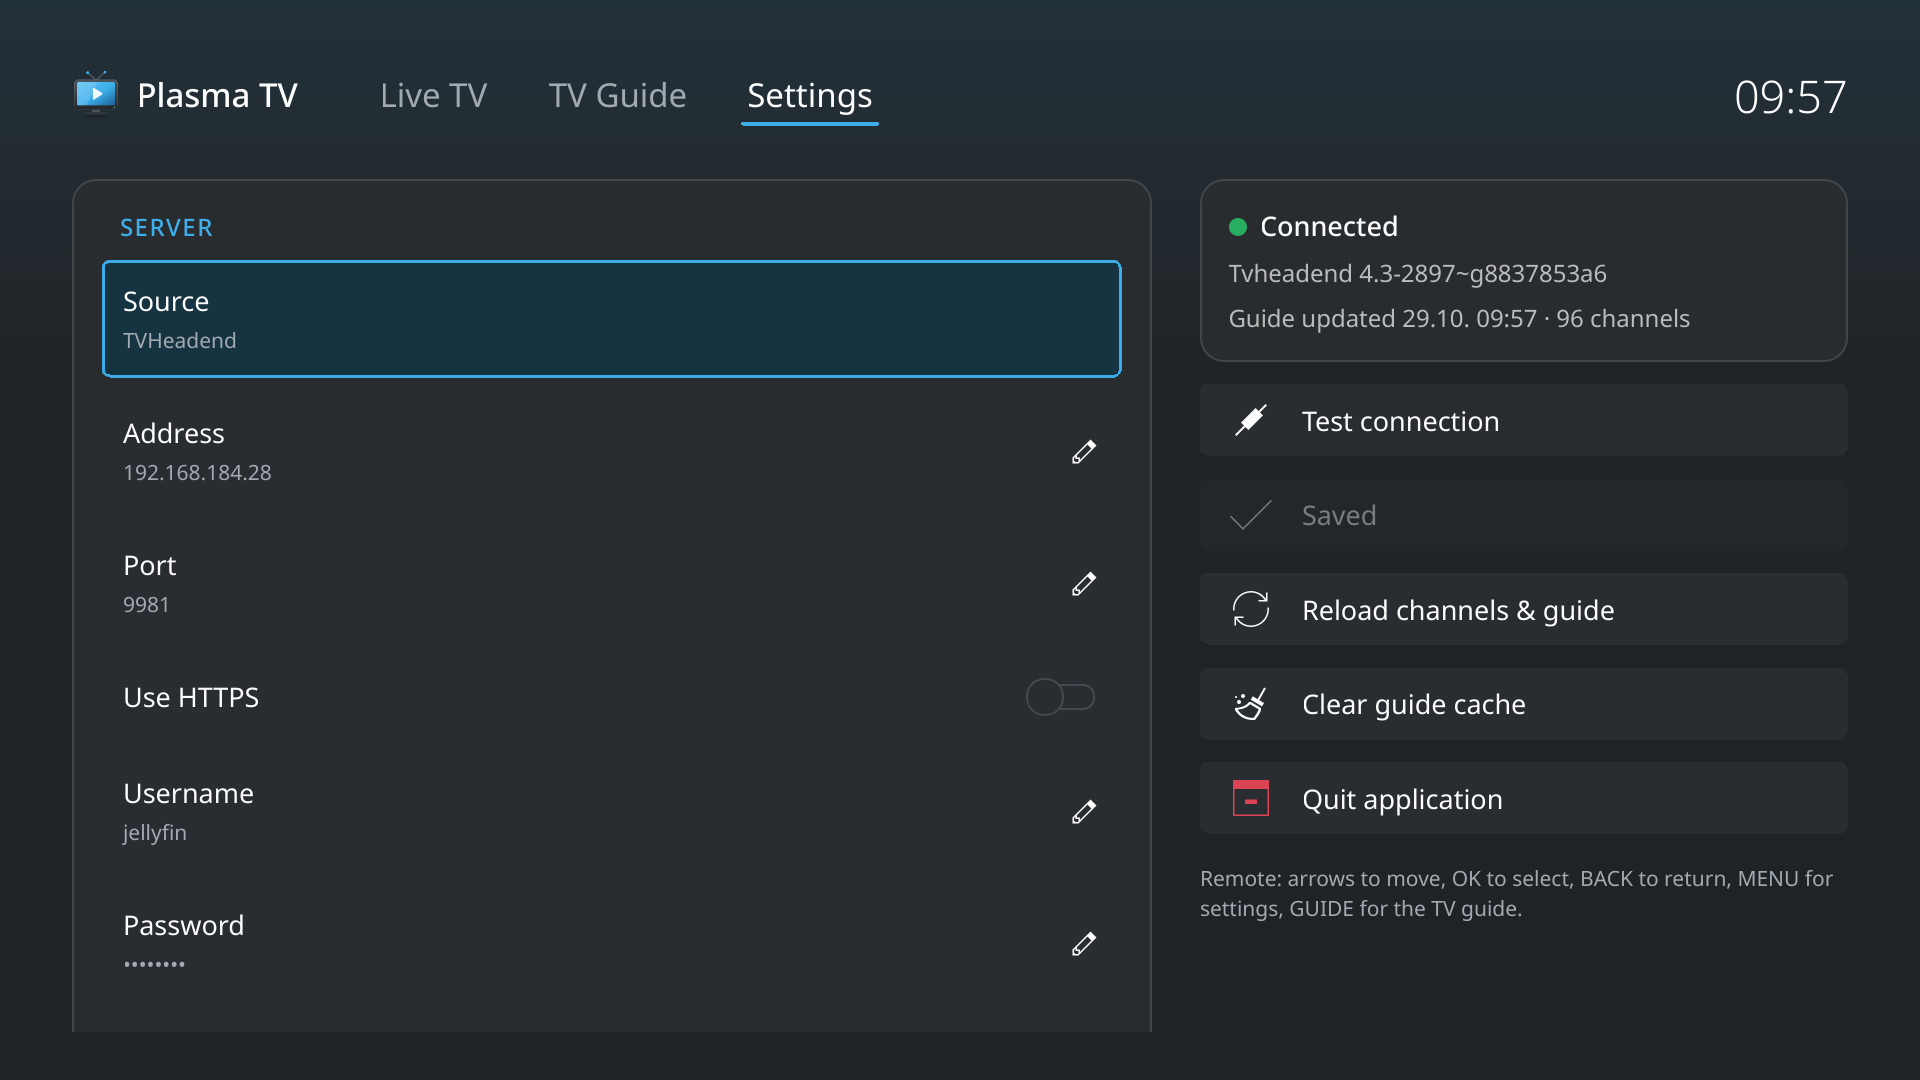
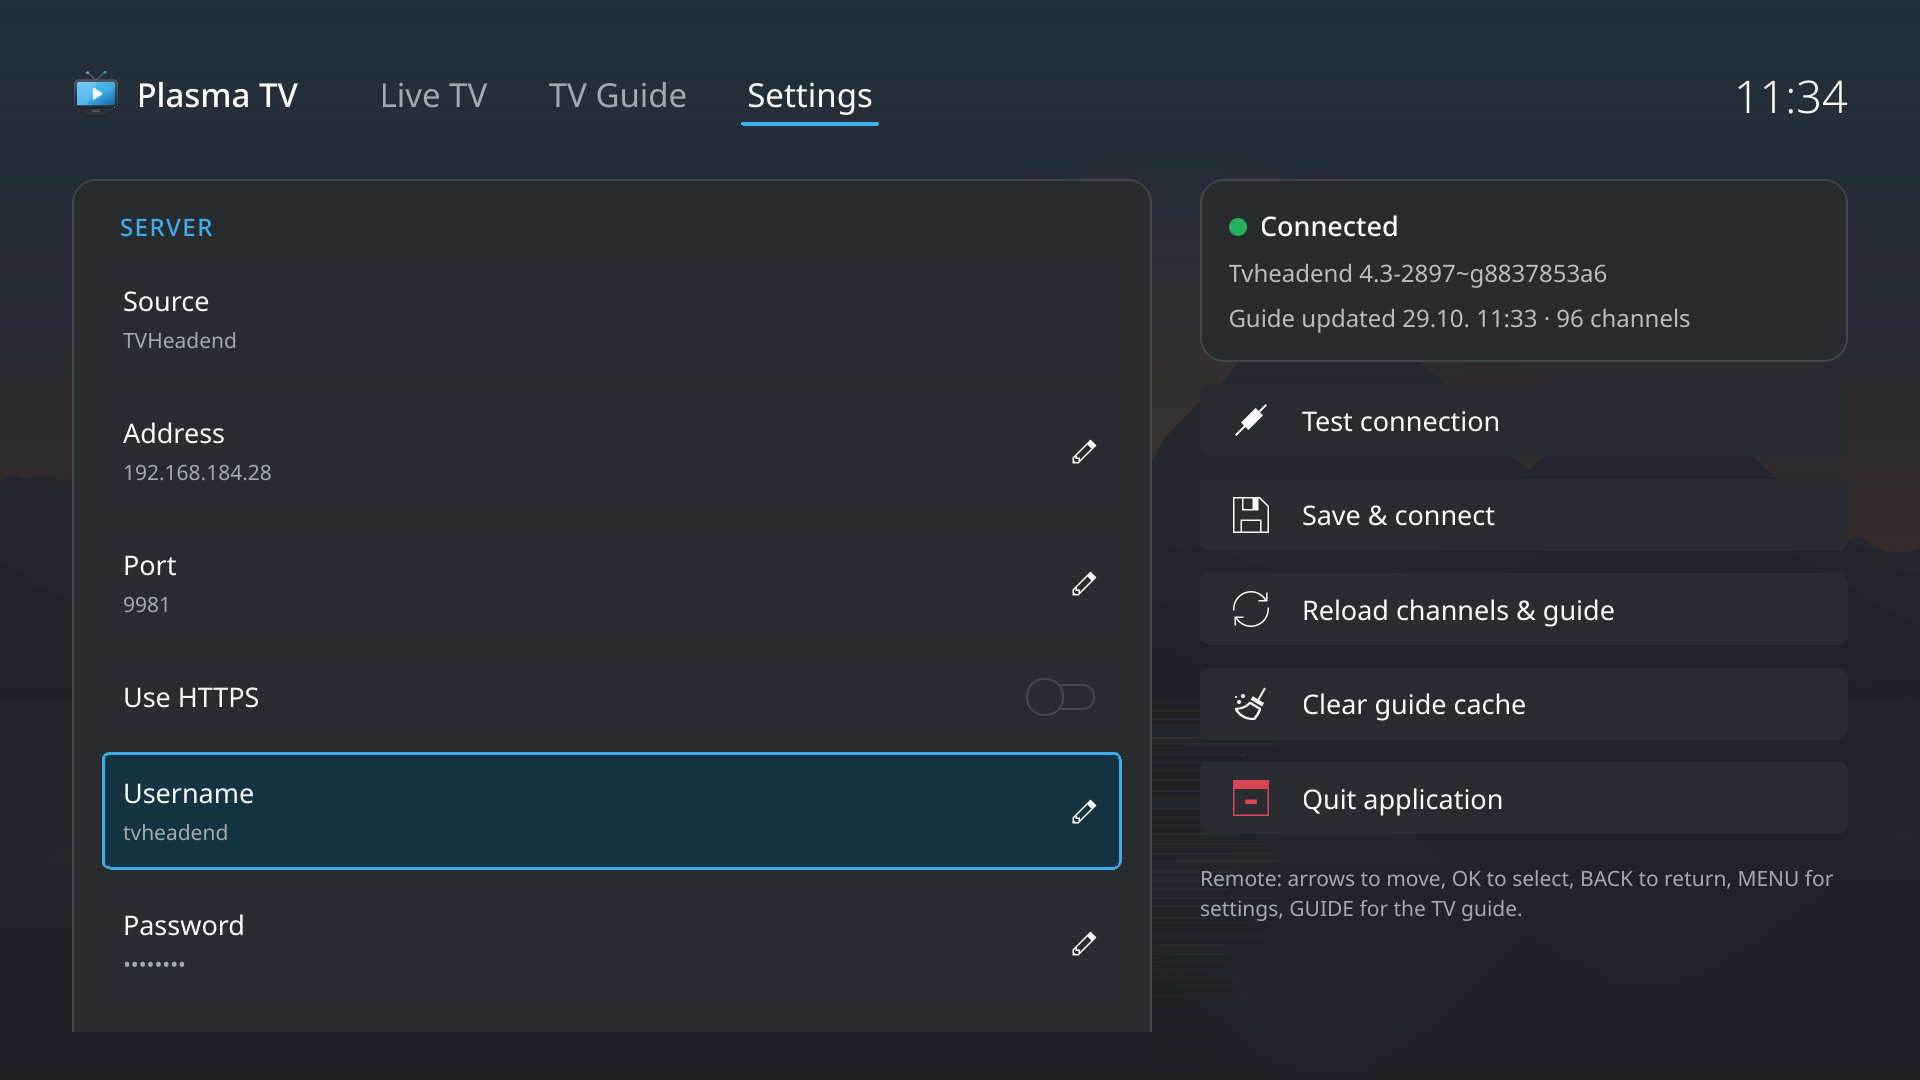
docs: Show playing TV on Live TV and hide the username in Settings
The Live TV screenshot didn't show what the README describes: the
playing channel shining through behind the menus. The settings
screenshot no longer shows the real username, a placeholder was typed
in without saving.

diff --git a/README.md b/README.md
@@ -15,21 +15,23 @@ theming and uses Breeze Dark by default.
 
 ## Screenshots
 
-**Live TV**: channel logos, the programme on air with its progress and the
-time left, plus details and "up next" for the highlighted channel. The channel
-that is playing shows through behind the menus.
-
-![Live TV page with the channel list and programme details](img/live-tv.png)
-
 **Watching**: the info bar shows the channel, the current programme with its
 progress and what's on next. Up/down zaps, left opens the channel list and OK
 pauses.
 
 ![Watch mode with the info bar over live video](img/watch.png)
 
+**Live TV**: channel logos, the programme on air with its progress and the
+time left, plus details and "up next" for the highlighted channel. The channel
+that is playing shows through behind the menus.
+
+![Live TV page with the channel list and programme details](img/live-tv.png)
+
 **Settings**: the source (TVHeadend or M3U + XMLTV), server address,
 credentials (the password is stored in the wallet), playback options, days of
 guide data and color scheme, next to the connection status.
+
+![Settings page](img/settings.png)
 
 ## Build
 
